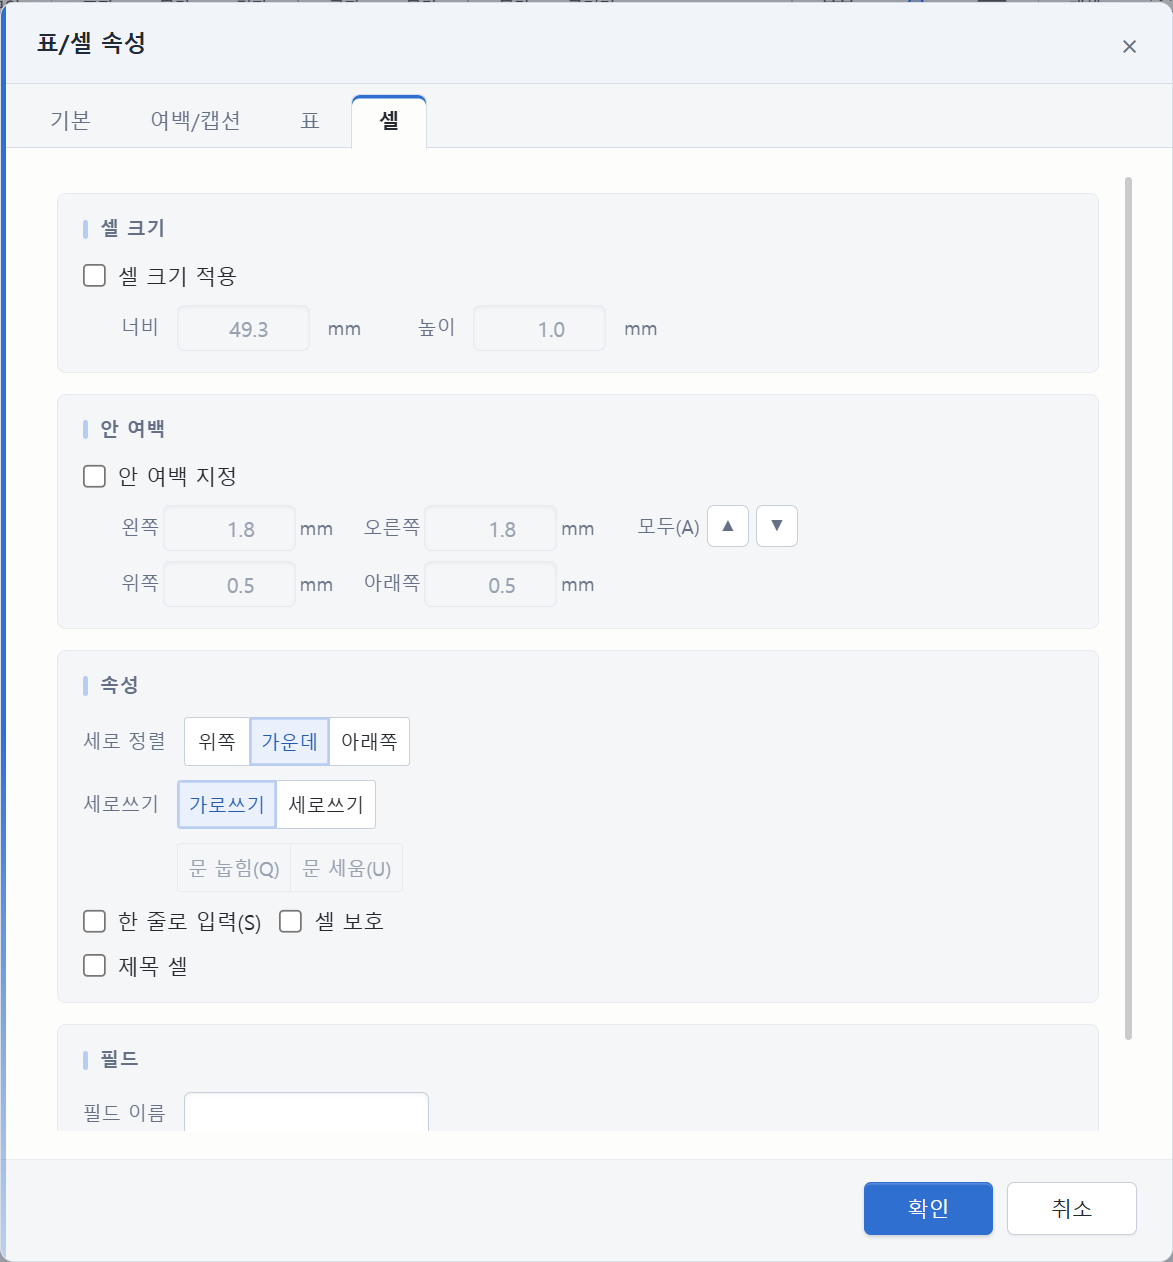
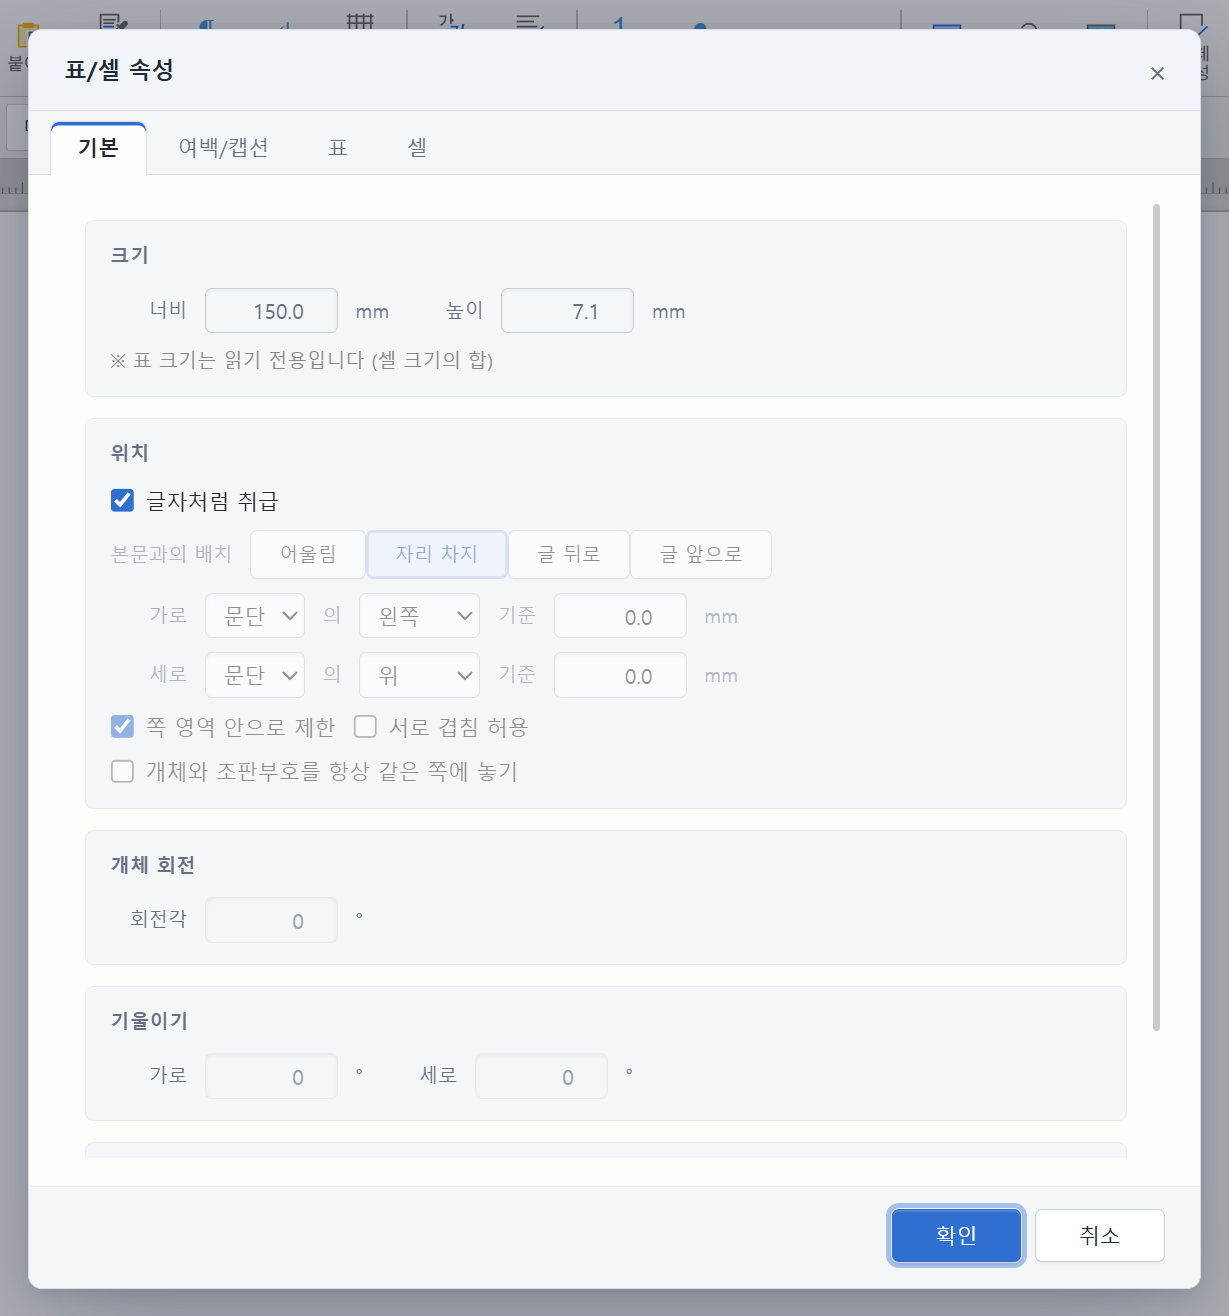
fix(hwp): drop the accent stripes from dialogs
The dialog skin drew a blue stripe down the left of every dialog and the
memo editor, a thick blue top edge on the find panel and a small bar in
front of every section title. They read as generated-UI decoration; the
primary button is now the one accent. A test keeps them out.

Number fields go back to rhwp's 4px inset: rhwp sizes many of them inline
to 40-60px, and the 8px inset pushed "100" under the spinner (character
shape showed "10C").

The design doc's screenshots are retaken from the built editor.

diff --git a/apps/hwp/tests/dialog-theme.test.ts b/apps/hwp/tests/dialog-theme.test.ts
@@ -333,6 +333,24 @@ describe('HWP dialog design system', () => {
     expect(overridden).toEqual([])
   })
 
+  it('puts no accent stripe on a dialog edge or in front of a heading', () => {
+    const appCss = readFileSync(
+      join(__dirname, '..', 'src', 'renderer', 'dialog-theme.css'),
+      'utf8',
+    )
+    const decorated = [...styleRules(DIALOG_THEME_CSS), ...styleRules(appCss)]
+      .map((rule) => rule.selector)
+      .filter((selector) =>
+        /\.(dialog-wrap|memo-modal|find-dialog|dialog-section-title)::(before|after)$/.test(
+          selector,
+        ),
+      )
+    expect(decorated).toEqual([])
+    expect(DIALOG_THEME_CSS).not.toMatch(
+      /border-(top|left):\s*[2-9]px solid var\(--ieum-dialog-accent\)/,
+    )
+  })
+
   it('does not grey out drop-downs as read-only', () => {
     // Chromium matches every <select> with :read-only.
     const readOnly = styleRules(DIALOG_THEME_CSS).filter((rule) =>

diff --git a/apps/hwp/src/renderer/dialog-theme.css b/apps/hwp/src/renderer/dialog-theme.css
@@ -185,21 +185,6 @@
   animation: ieum-memo-dialog-in 180ms var(--ieum-dialog-ease) both;
 }
 
-.memo-modal::before {
-  content: '';
-  position: absolute;
-  inset-block: 0;
-  inset-inline-start: 0;
-  width: 3px;
-  background: linear-gradient(
-    180deg,
-    var(--ieum-dialog-accent) 0%,
-    var(--ieum-dialog-accent) 58%,
-    color-mix(in srgb, var(--ieum-dialog-accent) 28%, transparent) 100%
-  );
-  pointer-events: none;
-}
-
 .memo-modal-head {
   display: flex;
   flex: 0 0 auto;

diff --git a/docs/plans/hwp-dialog-design.md b/docs/plans/hwp-dialog-design.md
@@ -1,6 +1,6 @@
 # 한글 편집기 대화상자 디자인 시스템
 
-상태: 구현됨 (2026-10-27). 실제 빌드에서 `표/셀 속성`, `필드 입력`(누름틀의 메모 칸), **메모 넣기**, 모양 복사, 찾기 패널을 열어 확인했다.
+상태: 구현됨 (2026-10-27). 실제 빌드에서 `표/셀 속성`, `필드 입력`(누름틀의 메모 칸), **메모 넣기**, 모양 복사, 찾기 패널을 열어 확인했다. 강조 띠를 뺀 뒤(2026-10-27) 같은 창들과 글자 모양·문단 모양·편집 용지·셀 테두리(대각선)·어두운 테마를 빌드한 편집기에서 다시 찍어 확인했다.
 
 ![메모 넣기](hwp-dialog-design/memo-modal.png)
 
@@ -67,8 +67,8 @@ rhwp는 공통 규칙(`.dialog-label`, `.dialog-body` 같은 한 클래스짜리
 
 - **표면**: 살짝 따뜻한 종이 흰색. 어두운 테마에서는 편집기와 같은 슬레이트.
 - **잉크**: 본문은 진한 회색, 라벨은 한 단계 흐리게, 단위·안내는 그보다 조금 더 흐리게. 비활성 글자는 별도 토큰(`-ink-disabled`)으로 안내보다 더 조용하게 둔다.
-- **액센트**: 왼쪽 세로 리본과 기본 버튼이 가장 강한 파랑이다. 선택된 세그먼트(정렬·방향 등)는 옅은 액센트 배경과 액센트 테두리·글자를 쓰는 **tonal** 상태로 두어, "선택됨"과 "실행"이 같은 무게로 경쟁하지 않게 한다.
-- **구획 표시**: 구획 제목 앞의 짧은 막대는 액센트가 아니라 `-accent-line`(옅은 선)으로 둔다. 작은 파랑이 여러 개 늘어서면 리본과 기본 버튼의 의미가 흐려진다.
+- **액센트**: 가장 강한 파랑은 기본 버튼 하나다. 선택된 세그먼트(정렬·방향 등)는 옅은 액센트 배경과 액센트 테두리·글자를 쓰는 **tonal** 상태로 두어, "선택됨"과 "실행"이 같은 무게로 경쟁하지 않게 한다.
+- **강조 띠를 두지 않는다**: 창 왼쪽의 세로 띠, 찾기 패널 위쪽의 굵은 색 선, 구획 제목 앞의 짧은 막대처럼 가장자리에 색을 칠해 강조하지 않는다. 흔한 자동 생성 화면처럼 보인다(2026-10-27 사용자 판단). 구획은 옅은 배경과 테두리, 제목 글자의 굵기로만 나눈다.
 - **밀도**: 12px UI 글자, 26px 입력, 30px 버튼, 4px 컨트롤 모서리, 8px 창 모서리. 웹 카드가 아니라 사무용 대화상자다.
 - **탭**: 종이 폴더 탭. 활성 탭은 본문과 같은 표면으로 이어지고, 위쪽에 2px 액센트 선이 있다.
 - **움직임**: 140–180ms의 짧은 페이드/8px 부상. `prefers-reduced-motion`이면 끈다.
